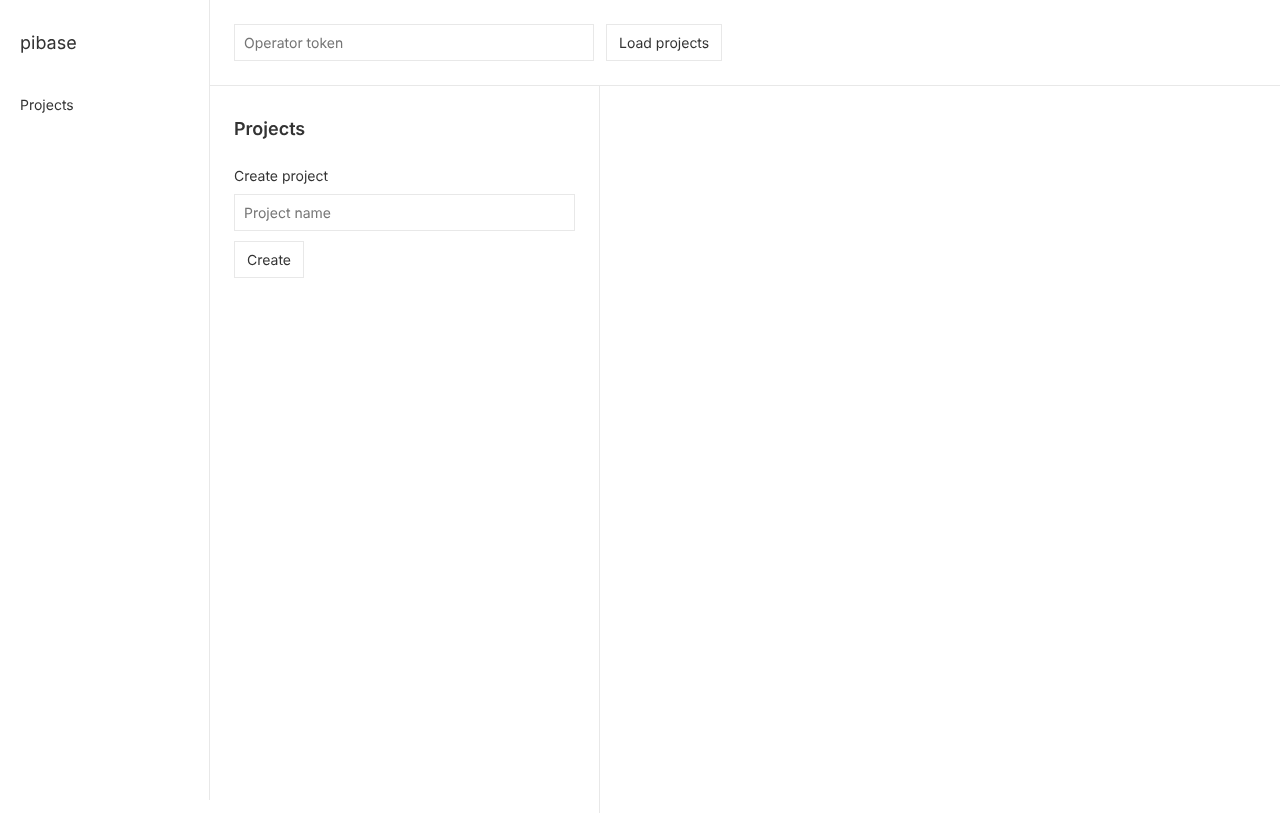
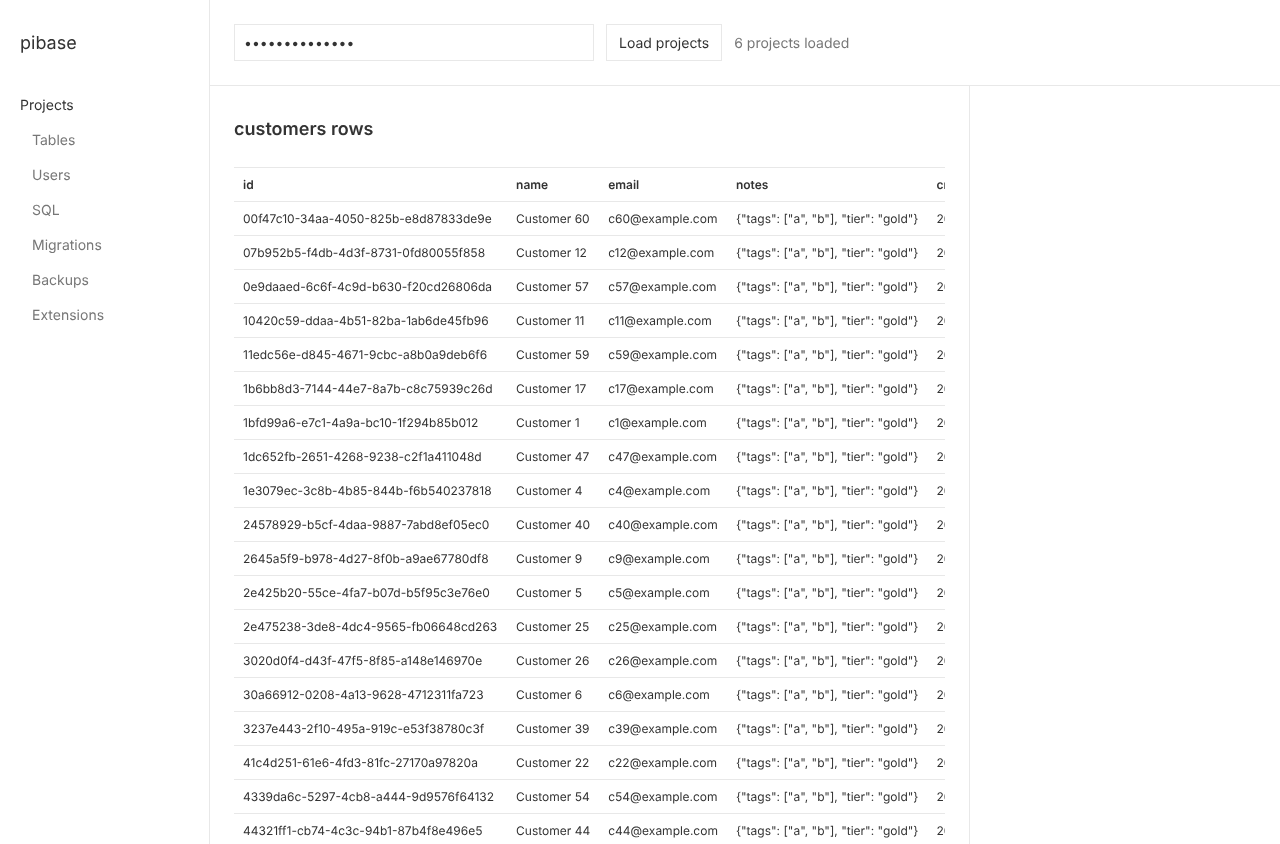
fix: dashboard pane layout, SQL result table, kept action messages
Driving the page in a browser showed panes sliced at the chain edge,
no whole pane visible at 390px, the rows table widening its pane, SQL
results as raw JSON with uuids as byte arrays, and backup/migration
result messages wiped by the pane reload. Fix each and refresh the
M7b screenshots and report.

Claude-Session: https://claude.ai/code/session_013fxWSPF98tSpeAtDEiU1Yo

diff --git a/internal/adminserver/server.go b/internal/adminserver/server.go
@@ -473,20 +473,20 @@ func (s *Server) backups(w http.ResponseWriter, r *http.Request) {
 	writeJSON(w, 200, out)
 }
 
-const page = `<!doctype html><html lang="en"><head><meta charset="utf-8"><meta name="viewport" content="width=device-width,initial-scale=1"><title>pibase operator</title><style>
-:root{--ink:#333;--muted:#777;--line:#e8e8e8;--tint:#f3f6f8;font:14px system-ui,sans-serif;color:var(--ink);background:#fff}*{box-sizing:border-box}body{margin:0}button,a,.menu{font:inherit;color:inherit;-webkit-tap-highlight-color:transparent;user-select:none}button{background:#fff;border:1px solid var(--line);padding:9px 12px;cursor:pointer}button:focus{outline:none}button:focus-visible,a:focus-visible,.menu:focus-visible{outline:none;background:var(--tint);text-decoration:underline}input,textarea{font:inherit;color:var(--ink);border:1px solid var(--line);padding:9px;width:100%}textarea{min-height:150px}.side{position:fixed;inset:0 auto 0 0;width:210px;border-right:1px solid var(--line);padding:32px 20px;background:#fff;z-index:1}.brand{font-size:18px;margin-bottom:34px}.menu{display:block;border:0;background:transparent;padding:9px 0;text-align:left;width:100%;cursor:pointer}.menu.secondary{color:var(--muted);padding-left:12px}.muted{color:var(--muted)}.app{margin-left:210px}.token{border-bottom:1px solid var(--line);padding:24px;display:flex;gap:12px;align-items:center}.token input{max-width:360px}.chain{display:flex;min-height:calc(100vh - 73px);overflow-x:auto}.pane{flex:0 0 390px;border-right:1px solid var(--line);padding:32px 24px;min-height:100%}.pane h1{font-size:18px;font-weight:600;margin:0 0 28px}.group{margin:0 0 28px}.group>*+*{margin-top:10px}.item{display:block;width:100%;text-align:left;border-width:0 0 1px;padding:13px 0}.item span{display:block;color:var(--muted);font-size:12px;margin-top:4px}.row{display:flex;gap:10px;align-items:center}.row>*{min-width:0}.row input{flex:1}.danger{color:#8b3333}.data{overflow:auto;border-top:1px solid var(--line);border-bottom:1px solid var(--line)}table{border-collapse:collapse;width:100%;font-size:12px}th,td{text-align:left;vertical-align:top;border-bottom:1px solid var(--line);padding:9px;white-space:nowrap}th{font-weight:600}pre{white-space:pre-wrap;overflow:auto;background:#fafafa;padding:12px}.hidden{display:none}@media(max-width:600px){.side{width:120px;padding:24px 12px}.app{margin-left:120px}.pane{flex-basis:330px;padding:28px 18px}.token{padding:18px;display:block}.token button{margin-top:10px}}
+const page = `<!doctype html><html lang="en"><head><meta charset="utf-8"><meta name="viewport" content="width=device-width,initial-scale=1"><title>pibase operator</title><link rel="icon" href="data:,"><style>
+:root{--ink:#333;--muted:#777;--line:#e8e8e8;--tint:#f3f6f8;font:14px system-ui,sans-serif;color:var(--ink);background:#fff}*{box-sizing:border-box}body{margin:0}button,a,.menu{font:inherit;color:inherit;-webkit-tap-highlight-color:transparent;user-select:none}button{background:#fff;border:1px solid var(--line);padding:9px 12px;cursor:pointer}button:focus{outline:none}button:focus-visible,a:focus-visible,.menu:focus-visible{outline:none;background:var(--tint);text-decoration:underline}input,textarea{font:inherit;color:var(--ink);border:1px solid var(--line);padding:9px;width:100%}textarea{min-height:150px}.side{position:fixed;inset:0 auto 0 0;width:210px;border-right:1px solid var(--line);padding:32px 20px;background:#fff;z-index:1}.brand{font-size:18px;margin-bottom:34px}.menu{display:block;border:0;background:transparent;padding:9px 0;text-align:left;width:100%;cursor:pointer}.menu.secondary{color:var(--muted);padding-left:12px}.muted{color:var(--muted)}.app{margin-left:210px}.token{border-bottom:1px solid var(--line);padding:24px;display:flex;gap:12px;align-items:center}.token input{max-width:360px}.chain{display:flex;min-height:calc(100vh - 73px);overflow-x:auto}.pane{flex:0 0 390px;min-width:0;border-right:1px solid var(--line);padding:32px 24px;min-height:100%}.pane.wide{flex-basis:760px}.pane p{overflow-wrap:anywhere}.actions{display:flex;flex-wrap:wrap;gap:8px;margin:0 0 28px}button:disabled{color:#bbb;cursor:default}.pane h1{font-size:18px;font-weight:600;margin:0 0 28px}.group{margin:0 0 28px}.group>*+*{margin-top:10px}.item{display:block;width:100%;text-align:left;border-width:0 0 1px;padding:13px 0}.item span{display:block;color:var(--muted);font-size:12px;margin-top:4px}.row{display:flex;gap:10px;align-items:center}.row>*{min-width:0}.row>*+*{margin-top:0}.row input{flex:1}.danger{color:#8b3333}.data{overflow:auto;border-top:1px solid var(--line);border-bottom:1px solid var(--line)}table{border-collapse:collapse;width:100%;font-size:12px}th,td{text-align:left;vertical-align:top;border-bottom:1px solid var(--line);padding:9px;white-space:nowrap}th{font-weight:600}pre{white-space:pre-wrap;overflow:auto;background:#fafafa;padding:12px}.hidden{display:none}@media(max-width:600px){.side{width:120px;padding:24px 12px}.app{margin-left:120px}.pane,.pane.wide{flex-basis:calc(100vw - 120px);padding:28px 18px}.token{padding:18px;display:block}.token button{margin-top:10px}.token #status{display:block;margin-top:10px}}
 </style></head><body><aside class="side"><div class="brand">pibase</div><button class="menu" data-menu="projects">Projects</button><div id="projectMenus" class="hidden"><button class="menu secondary" data-menu="tables">Tables</button><button class="menu secondary" data-menu="users">Users</button><button class="menu secondary" data-menu="sql">SQL</button><button class="menu secondary" data-menu="migrations">Migrations</button><button class="menu secondary" data-menu="backups">Backups</button><button class="menu secondary" data-menu="extensions">Extensions</button></div></aside><main class="app"><div class="token"><input id="token" type="password" placeholder="Operator token" autocomplete="off"><button id="load">Load projects</button><span id="status" class="muted"></span></div><div id="chain" class="chain"></div></main><script>
 const q=id=>document.getElementById(id), chain=q('chain');let projects=[],selected=null;
 const auth=()=>({Authorization:'Bearer '+q('token').value,'Content-Type':'application/json'}), projectPath=()=> '/_pibase/projects/'+encodeURIComponent(selected.id);
-function el(tag,text){const e=document.createElement(tag);if(text!==undefined)e.textContent=text;return e}function button(text,fn,cls){const b=el('button',text);if(cls)b.className=cls;b.onclick=fn;return b}function pane(title){const p=el('section');p.className='pane';p.append(el('h1',title));return p}function clearFrom(n){while(chain.children.length>n)chain.lastChild.remove()}function add(p){chain.append(p);chain.scrollLeft=chain.scrollWidth}function say(v){q('status').textContent=v}
+function el(tag,text){const e=document.createElement(tag);if(text!==undefined)e.textContent=text;return e}function button(text,fn,cls){const b=el('button',text);if(cls)b.className=cls;b.onclick=fn;return b}function pane(title){const p=el('section');p.className='pane';p.append(el('h1',title));return p}function clearFrom(n){while(chain.children.length>n)chain.lastChild.remove()}function add(p){chain.append(p);alignChain()}function alignChain(){chain.style.paddingRight='0px';const max=chain.scrollWidth-chain.clientWidth;let x=max;for(const c of chain.children){const left=c.offsetLeft-chain.offsetLeft;if(left>=max){x=left;break}}if(x>max)chain.style.paddingRight=(x-max)+'px';chain.scrollLeft=x}function cell(v){if(v===null)return 'NULL';return typeof v==='object'?JSON.stringify(v):String(v)}function dataTable(columns,rows){const d=el('div');d.className='data';const table=el('table'),head=el('tr');for(const c of columns)head.append(el('th',c));table.append(head);for(const row of rows){const tr=el('tr');for(const c of columns){const td=el('td',cell(row[c]));if(row[c]===null)td.className='muted';tr.append(td)}table.append(tr)}d.append(table);return d}function say(v){q('status').textContent=v}
 async function api(path,opt={}){opt.headers=auth();const r=await fetch(path,opt),t=await r.text();if(!r.ok)throw Error(t||r.status);return t?JSON.parse(t):null}function body(v,method='POST'){return{method,body:JSON.stringify(v)}}
 function projectsPane(){const p=pane('Projects');const create=el('div');create.className='group';create.append(el('div','Create project'));const input=el('input');input.placeholder='Project name';create.append(input,button('Create',async()=>{try{const x=await api('/_pibase/projects',body({name:input.value}));projects.push(x);renderProjects();clearFrom(1);const kp=pane(x.name);kp.append(el('p','Shown once; copy them now.'));const ak=el('p');ak.textContent='anon key: '+x.anon_key;const sk=el('p');sk.textContent='service key: '+x.service_key;kp.append(ak,sk);add(kp)}catch(e){say(e.message)}}));p.append(create);const list=el('div');list.id='projectList';p.append(list);return p}
 function renderProjects(){const list=q('projectList');if(!list)return;list.replaceChildren();for(const x of projects){const b=button(x.name,()=>openProject(x),'item');b.append(el('span',x.id));list.append(b)}}
-function openProject(x){selected=x;q('projectMenus').classList.remove('hidden');clearFrom(1);const p=pane(x.name);p.append(el('p',x.id));p.append(button('Tables',openTables),button('Users',openUsers),button('SQL',openSQL),button('Migrations',openMigrations),button('Backups',openBackups),button('Extensions',openExtensions));const danger=el('div');danger.className='group danger';danger.append(el('div','Delete project — type its id to confirm'));const i=el('input');danger.append(i,button('Delete project',async()=>{try{await api(projectPath(),body({confirm:i.value},'DELETE'));selected=null;q('projectMenus').classList.add('hidden');await load();}catch(e){say(e.message)}}));p.append(danger);add(p)}
+function openProject(x){selected=x;q('projectMenus').classList.remove('hidden');clearFrom(1);const p=pane(x.name);p.append(el('p',x.id));const acts=el('div');acts.className='actions';acts.append(button('Tables',openTables),button('Users',openUsers),button('SQL',openSQL),button('Migrations',()=>openMigrations()),button('Backups',()=>openBackups()),button('Extensions',openExtensions));p.append(acts);const danger=el('div');danger.className='group danger';danger.append(el('div','Delete project — type its id to confirm'));const i=el('input');danger.append(i,button('Delete project',async()=>{try{await api(projectPath(),body({confirm:i.value},'DELETE'));selected=null;q('projectMenus').classList.add('hidden');await load();}catch(e){say(e.message)}}));p.append(danger);add(p)}
 async function openTables(){clearFrom(2);const p=pane('Tables');p.append(el('p','Loading…'));add(p);try{const ts=await api(projectPath()+'/tables');p.replaceChildren(el('h1','Tables'));for(const t of ts){const b=button(t.name,()=>openTable(t),'item');b.append(el('span',t.count+' rows · RLS '+(t.rls?'on':'off')+' · anon '+(t.anon_readable?'yes':'no')));p.append(b)}}catch(e){p.append(el('p',e.message))}}
 function openTable(t){clearFrom(3);const p=pane(t.name);p.append(el('p',t.count+' rows · RLS '+(t.rls?'on':'off')+' · anon readable '+(t.anon_readable?'yes':'no')));p.append(button('Browse rows',()=>openRows(t)));add(p)}
-async function openRows(t,offset=0){clearFrom(4);const p=pane(t.name+' rows');p.append(el('p','Loading…'));add(p);try{const data=await api(projectPath()+'/tables/'+encodeURIComponent(t.name)+'/rows?offset='+offset);p.replaceChildren(el('h1',t.name+' rows'));const d=el('div');d.className='data';const table=el('table'),head=el('tr');for(const c of data.columns)head.append(el('th',c));table.append(head);for(const row of data.rows){const tr=el('tr');for(const c of data.columns){const td=el('td');if(row[c]===null){td.textContent='NULL';td.style.color='var(--muted)'}else{td.textContent=row[c]}tr.append(td)}table.append(tr)}d.append(table);p.append(d);const nav=el('div');nav.className='row group';const prev=button('Previous',()=>openRows(t,Math.max(0,offset-50)));if(offset===0)prev.disabled=true;const next=button('Next',()=>openRows(t,offset+50));if(!data.has_more)next.disabled=true;nav.append(prev,next,el('span','Rows '+(offset+1)+'–'+(offset+data.rows.length)));p.append(nav)}catch(e){p.append(el('p',e.message))}}
-async function openUsers(){clearFrom(2);const p=pane('Users');p.append(el('p','Loading…'));add(p);try{const users=await api(projectPath()+'/users');p.replaceChildren(el('h1','Users'));const email=el('input');email.placeholder='Email';const pass=el('input');pass.type='password';pass.placeholder='Password (8+ characters)';p.append(email,pass,button('Create user',async()=>{try{await api(projectPath()+'/users',body({email:email.value,password:pass.value,email_confirm:true}));openUsers()}catch(e){say(e.message)}}));for(const u of users){const g=el('div');g.className='group';g.append(el('div',u.email),el('div',u.id));const c=el('input');c.placeholder='Type id to confirm';g.append(c,button('Delete user',async()=>{try{await api(projectPath()+'/users/'+encodeURIComponent(u.id),body({confirm:c.value},'DELETE'));openUsers()}catch(e){say(e.message)}},'danger'));p.append(g)}}catch(e){p.append(el('p',e.message))}}
-function simple(title,content){clearFrom(2);const p=pane(title);p.append(content);add(p)}function openSQL(){const a=el('textarea');const out=el('pre');const box=el('div');box.append(a,button('Run SQL',async()=>{try{out.textContent=JSON.stringify(await api(projectPath()+'/sql',body({sql:a.value})),null,2)}catch(e){out.textContent=e.message}}),out);simple('SQL',box)}async function openMigrations(){clearFrom(2);const p=pane('Migrations');const nameIn=el('input');nameIn.placeholder='Migration name';const sqlIn=el('textarea');sqlIn.placeholder='SQL';const status=el('p');status.className='muted';const g=el('div');g.className='group';g.append(el('div','Apply migration'),nameIn,sqlIn,button('Apply',async()=>{try{await api(projectPath()+'/migrations',body({name:nameIn.value,sql:sqlIn.value}));status.textContent='Applied: '+nameIn.value;openMigrations()}catch(e){status.textContent=e.message}}),status);p.append(g);p.append(el('h1','Applied'));try{const ms=await api(projectPath()+'/migrations');for(const m of ms){const d=el('div');d.className='item';d.textContent=m.name;d.append(el('span',m.checksum+' · '+m.applied_at));p.append(d)}if(!ms.length)p.append(el('p','No migrations applied.'))}catch(e){p.append(el('p',e.message))}add(p)}async function openBackups(){clearFrom(2);const p=pane('Backups');const status=el('p');status.className='muted';p.append(button('Back up now',async()=>{try{const r=await api(projectPath()+'/backup',{method:'POST'});status.textContent='Created: '+r.file;openBackups()}catch(e){status.textContent=e.message}}),status);try{const bs=await api(projectPath()+'/backups');for(const b of bs){const d=el('div');d.className='item';d.textContent=b.name;d.append(el('span',Math.round(b.size/1024)+' KB'));p.append(d)}if(!bs.length)p.append(el('p','No backups yet.'))}catch(e){p.append(el('p',e.message))}add(p)}function openExtensions(){const x=el('div');x.append(button('Enable PostGIS',()=>api(projectPath()+'/extensions/postgis',{method:'POST'}).then(()=>say('PostGIS enabled')).catch(e=>say(e.message))),button('Enable pgvector',()=>api(projectPath()+'/extensions/pgvector',{method:'POST'}).then(()=>say('pgvector enabled')).catch(e=>say(e.message))));simple('Extensions',x)}
-async function load(){try{projects=await api('/_pibase/projects');selected=null;q('projectMenus').classList.add('hidden');clearFrom(0);add(projectsPane());renderProjects();say(projects.length+' projects loaded')}catch(e){say(e.message)}}q('load').onclick=load;document.querySelectorAll('[data-menu]').forEach(b=>b.onclick=()=>{if(b.dataset.menu==='projects')load();else if(selected)({tables:openTables,users:openUsers,sql:openSQL,migrations:openMigrations,backups:openBackups,extensions:openExtensions}[b.dataset.menu])()});add(projectsPane());
+async function openRows(t,offset=0){clearFrom(4);const p=pane(t.name+' rows');p.classList.add('wide');p.append(el('p','Loading…'));add(p);try{const data=await api(projectPath()+'/tables/'+encodeURIComponent(t.name)+'/rows?offset='+offset);p.replaceChildren(el('h1',t.name+' rows'));p.append(dataTable(data.columns,data.rows));const nav=el('div');nav.className='row group';const prev=button('Previous',()=>openRows(t,Math.max(0,offset-50)));if(offset===0)prev.disabled=true;const next=button('Next',()=>openRows(t,offset+50));if(!data.has_more)next.disabled=true;nav.append(prev,next,el('span','Rows '+(offset+1)+'–'+(offset+data.rows.length)));p.append(nav)}catch(e){p.append(el('p',e.message))}}
+async function openUsers(){clearFrom(2);const p=pane('Users');p.append(el('p','Loading…'));add(p);try{const users=await api(projectPath()+'/users');p.replaceChildren(el('h1','Users'));const email=el('input');email.placeholder='Email';const pass=el('input');pass.type='password';pass.placeholder='Password (8+ characters)';const cg=el('div');cg.className='group';p.append(cg);cg.append(el('div','Create user'),email,pass,button('Create user',async()=>{try{await api(projectPath()+'/users',body({email:email.value,password:pass.value,email_confirm:true}));openUsers()}catch(e){say(e.message)}}));for(const u of users){const g=el('div');g.className='group';g.append(el('div',u.email),el('div',u.id));const c=el('input');c.placeholder='Type id to confirm';g.append(c,button('Delete user',async()=>{try{await api(projectPath()+'/users/'+encodeURIComponent(u.id),body({confirm:c.value},'DELETE'));openUsers()}catch(e){say(e.message)}},'danger'));p.append(g)}}catch(e){p.append(el('p',e.message))}}
+function simple(title,content,wide){clearFrom(2);const p=pane(title);if(wide)p.classList.add('wide');p.append(content);add(p)}function openSQL(){const a=el('textarea');const out=el('div');const box=el('div');box.append(a,button('Run SQL',async()=>{try{const r=await api(projectPath()+'/sql',body({sql:a.value}));const n=(r.rows||[]).length;out.replaceChildren(el('p',r.command||(n+' rows')));if(r.columns&&r.columns.length)out.append(dataTable(r.columns,r.rows||[]))}catch(e){const m=el('pre',e.message);out.replaceChildren(m)}}),out);box.className='group';simple('SQL',box,true)}async function openMigrations(note){clearFrom(2);const p=pane('Migrations');const nameIn=el('input');nameIn.placeholder='Migration name';const sqlIn=el('textarea');sqlIn.placeholder='SQL';const status=el('p',note||'');status.className='muted';const g=el('div');g.className='group';g.append(el('div','Apply migration'),nameIn,sqlIn,button('Apply',async()=>{try{await api(projectPath()+'/migrations',body({name:nameIn.value,sql:sqlIn.value}));openMigrations('Applied: '+nameIn.value)}catch(e){status.textContent=e.message}}),status);p.append(g);p.append(el('h1','Applied'));try{const ms=await api(projectPath()+'/migrations');for(const m of ms){const d=el('div');d.className='item';d.textContent=m.name;d.append(el('span',m.checksum+' · '+new Date(m.applied_at).toLocaleString()));p.append(d)}if(!ms.length)p.append(el('p','No migrations applied.'))}catch(e){p.append(el('p',e.message))}add(p)}async function openBackups(note){clearFrom(2);const p=pane('Backups');const status=el('p',note||'');status.className='muted';p.append(button('Back up now',async()=>{try{const r=await api(projectPath()+'/backup',{method:'POST'});openBackups('Created: '+r.file)}catch(e){status.textContent=e.message}}),status);try{const bs=await api(projectPath()+'/backups');for(const b of bs){const d=el('div');d.className='item';d.textContent=b.name;d.append(el('span',Math.round(b.size/1024)+' KB'));p.append(d)}if(!bs.length)p.append(el('p','No backups yet.'))}catch(e){p.append(el('p',e.message))}add(p)}function openExtensions(){const x=el('div');x.append(button('Enable PostGIS',()=>api(projectPath()+'/extensions/postgis',{method:'POST'}).then(()=>say('PostGIS enabled')).catch(e=>say(e.message))),button('Enable pgvector',()=>api(projectPath()+'/extensions/pgvector',{method:'POST'}).then(()=>say('pgvector enabled')).catch(e=>say(e.message))));simple('Extensions',x)}
+async function load(){try{projects=await api('/_pibase/projects');selected=null;q('projectMenus').classList.add('hidden');clearFrom(0);add(projectsPane());renderProjects();say(projects.length+' projects loaded')}catch(e){say(e.message)}}q('load').onclick=load;document.querySelectorAll('[data-menu]').forEach(b=>b.onclick=()=>{if(b.dataset.menu==='projects')load();else if(selected)({tables:openTables,users:openUsers,sql:openSQL,migrations:()=>openMigrations(),backups:()=>openBackups(),extensions:openExtensions}[b.dataset.menu])()});add(projectsPane());
 </script></body></html>`

diff --git a/internal/adminsql/sql.go b/internal/adminsql/sql.go
@@ -81,7 +81,7 @@ func run(ctx context.Context, adminURL, projectID, statement string, validate bo
 		}
 		row := make(map[string]any, len(values))
 		for i, value := range values {
-			row[result.Columns[i]] = value
+			row[result.Columns[i]] = displayValue(value)
 		}
 		result.Rows = append(result.Rows, row)
 	}
@@ -190,6 +190,18 @@ func validateOwnerSQL(statement string) error {
 		}
 	}
 	return nil
+}
+
+// displayValue keeps uuid and bytea readable in JSON instead of byte arrays.
+func displayValue(v any) any {
+	switch x := v.(type) {
+	case [16]byte:
+		h := hex.EncodeToString(x[:])
+		return h[0:8] + "-" + h[8:12] + "-" + h[12:16] + "-" + h[16:20] + "-" + h[20:]
+	case []byte:
+		return `\x` + hex.EncodeToString(x)
+	}
+	return v
 }
 
 func sqlToken(token string) string { return strings.TrimPrefix(token, "\x00") }

diff --git a/internal/adminserver/server_test.go b/internal/adminserver/server_test.go
@@ -46,7 +46,7 @@ func TestDashboardUIHardRules(t *testing.T) {
 			t.Fatalf("dashboard contains forbidden %q", forbidden)
 		}
 	}
-	for _, required := range []string{"--ink:#333", "-webkit-tap-highlight-color:transparent", ":focus-visible", "chain.scrollLeft=chain.scrollWidth", "textContent"} {
+	for _, required := range []string{"--ink:#333", "-webkit-tap-highlight-color:transparent", ":focus-visible", "function alignChain()", "chain.scrollLeft=x", "function dataTable(", "textContent"} {
 		if !strings.Contains(page, required) {
 			t.Fatalf("dashboard misses %q", required)
 		}

diff --git a/internal/adminsql/sql_test.go b/internal/adminsql/sql_test.go
@@ -141,3 +141,16 @@ func TestSQLFilterComprehensive(t *testing.T) {
 		}
 	}
 }
+
+func TestDisplayValueMakesUUIDAndByteaReadable(t *testing.T) {
+	id := [16]byte{0x00, 0xf4, 0x7c, 0x10, 0x34, 0xaa, 0x40, 0x50, 0x82, 0x5b, 0xe8, 0xd8, 0x78, 0x33, 0xde, 0x9e}
+	if got := displayValue(id); got != "00f47c10-34aa-4050-825b-e8d87833de9e" {
+		t.Fatalf("uuid = %v", got)
+	}
+	if got := displayValue([]byte{0xde, 0xad}); got != `\xdead` {
+		t.Fatalf("bytea = %v", got)
+	}
+	if got := displayValue("text"); got != "text" {
+		t.Fatalf("text = %v", got)
+	}
+}

diff --git a/reports/M7b.md b/reports/M7b.md
@@ -51,11 +51,21 @@ None of these are related to M7b changes.
 - **Real browser clicking**: screenshots taken programmatically; no manual click-through.
 
 ## Screenshots
-- `reports/m7b-1280.png` (1280px): Layout correct — left sidebar, pane columns, no overflow.
-- `reports/m7b-390.png` (390px): **Left sidebar overlaps main content** — "Projects" heading and "Create project" text partially hidden behind the sidebar. The sidebar has a fixed width that doesn't collapse at narrow viewports. This is a pre-existing layout issue, not introduced by M7b.
+Taken with headless Chromium driving the real page against real Postgres (token entered, project opened, Tables → customers → Browse rows, then Users, SQL, Backups, Migrations at both widths; no page errors).
+- `reports/m7b-1280.png`: rows pane (wide pane, table scrolls inside it).
+- `reports/m7b-390.png`: rows page 2 at phone width, Next disabled.
+
+### UI fixes after the first screenshots (follow-up commit)
+The first screenshots were of the empty landing page (wrong URL), so they missed these. All found by driving the page and fixed:
+1. Opening a pane scrolled the chain to its far right, slicing the left-most visible pane mid-word (both widths). Now `alignChain()` scrolls so the left-most visible pane starts on its own edge.
+2. At 390px panes were 330px in a 270px column, so no pane was ever fully visible. Panes now take exactly the width beside the menu on phones.
+3. The rows table pushed its pane wider instead of scrolling. Rows and SQL panes are now wide panes (760px) with the table scrolling inside.
+4. SQL results were raw JSON and a uuid showed as an array of 16 numbers. Results now render as the same table as Browse; uuid and bytea are converted to text server-side (`displayValue`, unit-tested).
+5. "Back up now" and "Apply migration" reloaded their pane and wiped the "Created: …" / "Applied: …" message. The message now survives the reload (checked in the browser).
+6. Disabled Previous/Next looked enabled; pager buttons were misaligned; project action buttons and the user form had no spacing; migration times were raw ISO strings; favicon request returned 401 in the console.
 
 ## Known gaps
-1. Mobile layout overlap at 390px (pre-existing, not M7b).
+1. The 390px layout is usable but cramped: the left menu keeps 120px (the UI rules require a left menu).
 2. Gateway sign-in test not added for M7b-02 (would need full gateway wiring).
 3. Docker gates pending.
 4. Connection count assertion for M7b-07 not added (would need `pg_stat_activity` query in test); the implementation uses a single `TableMeta` call so it is structurally one connection.
